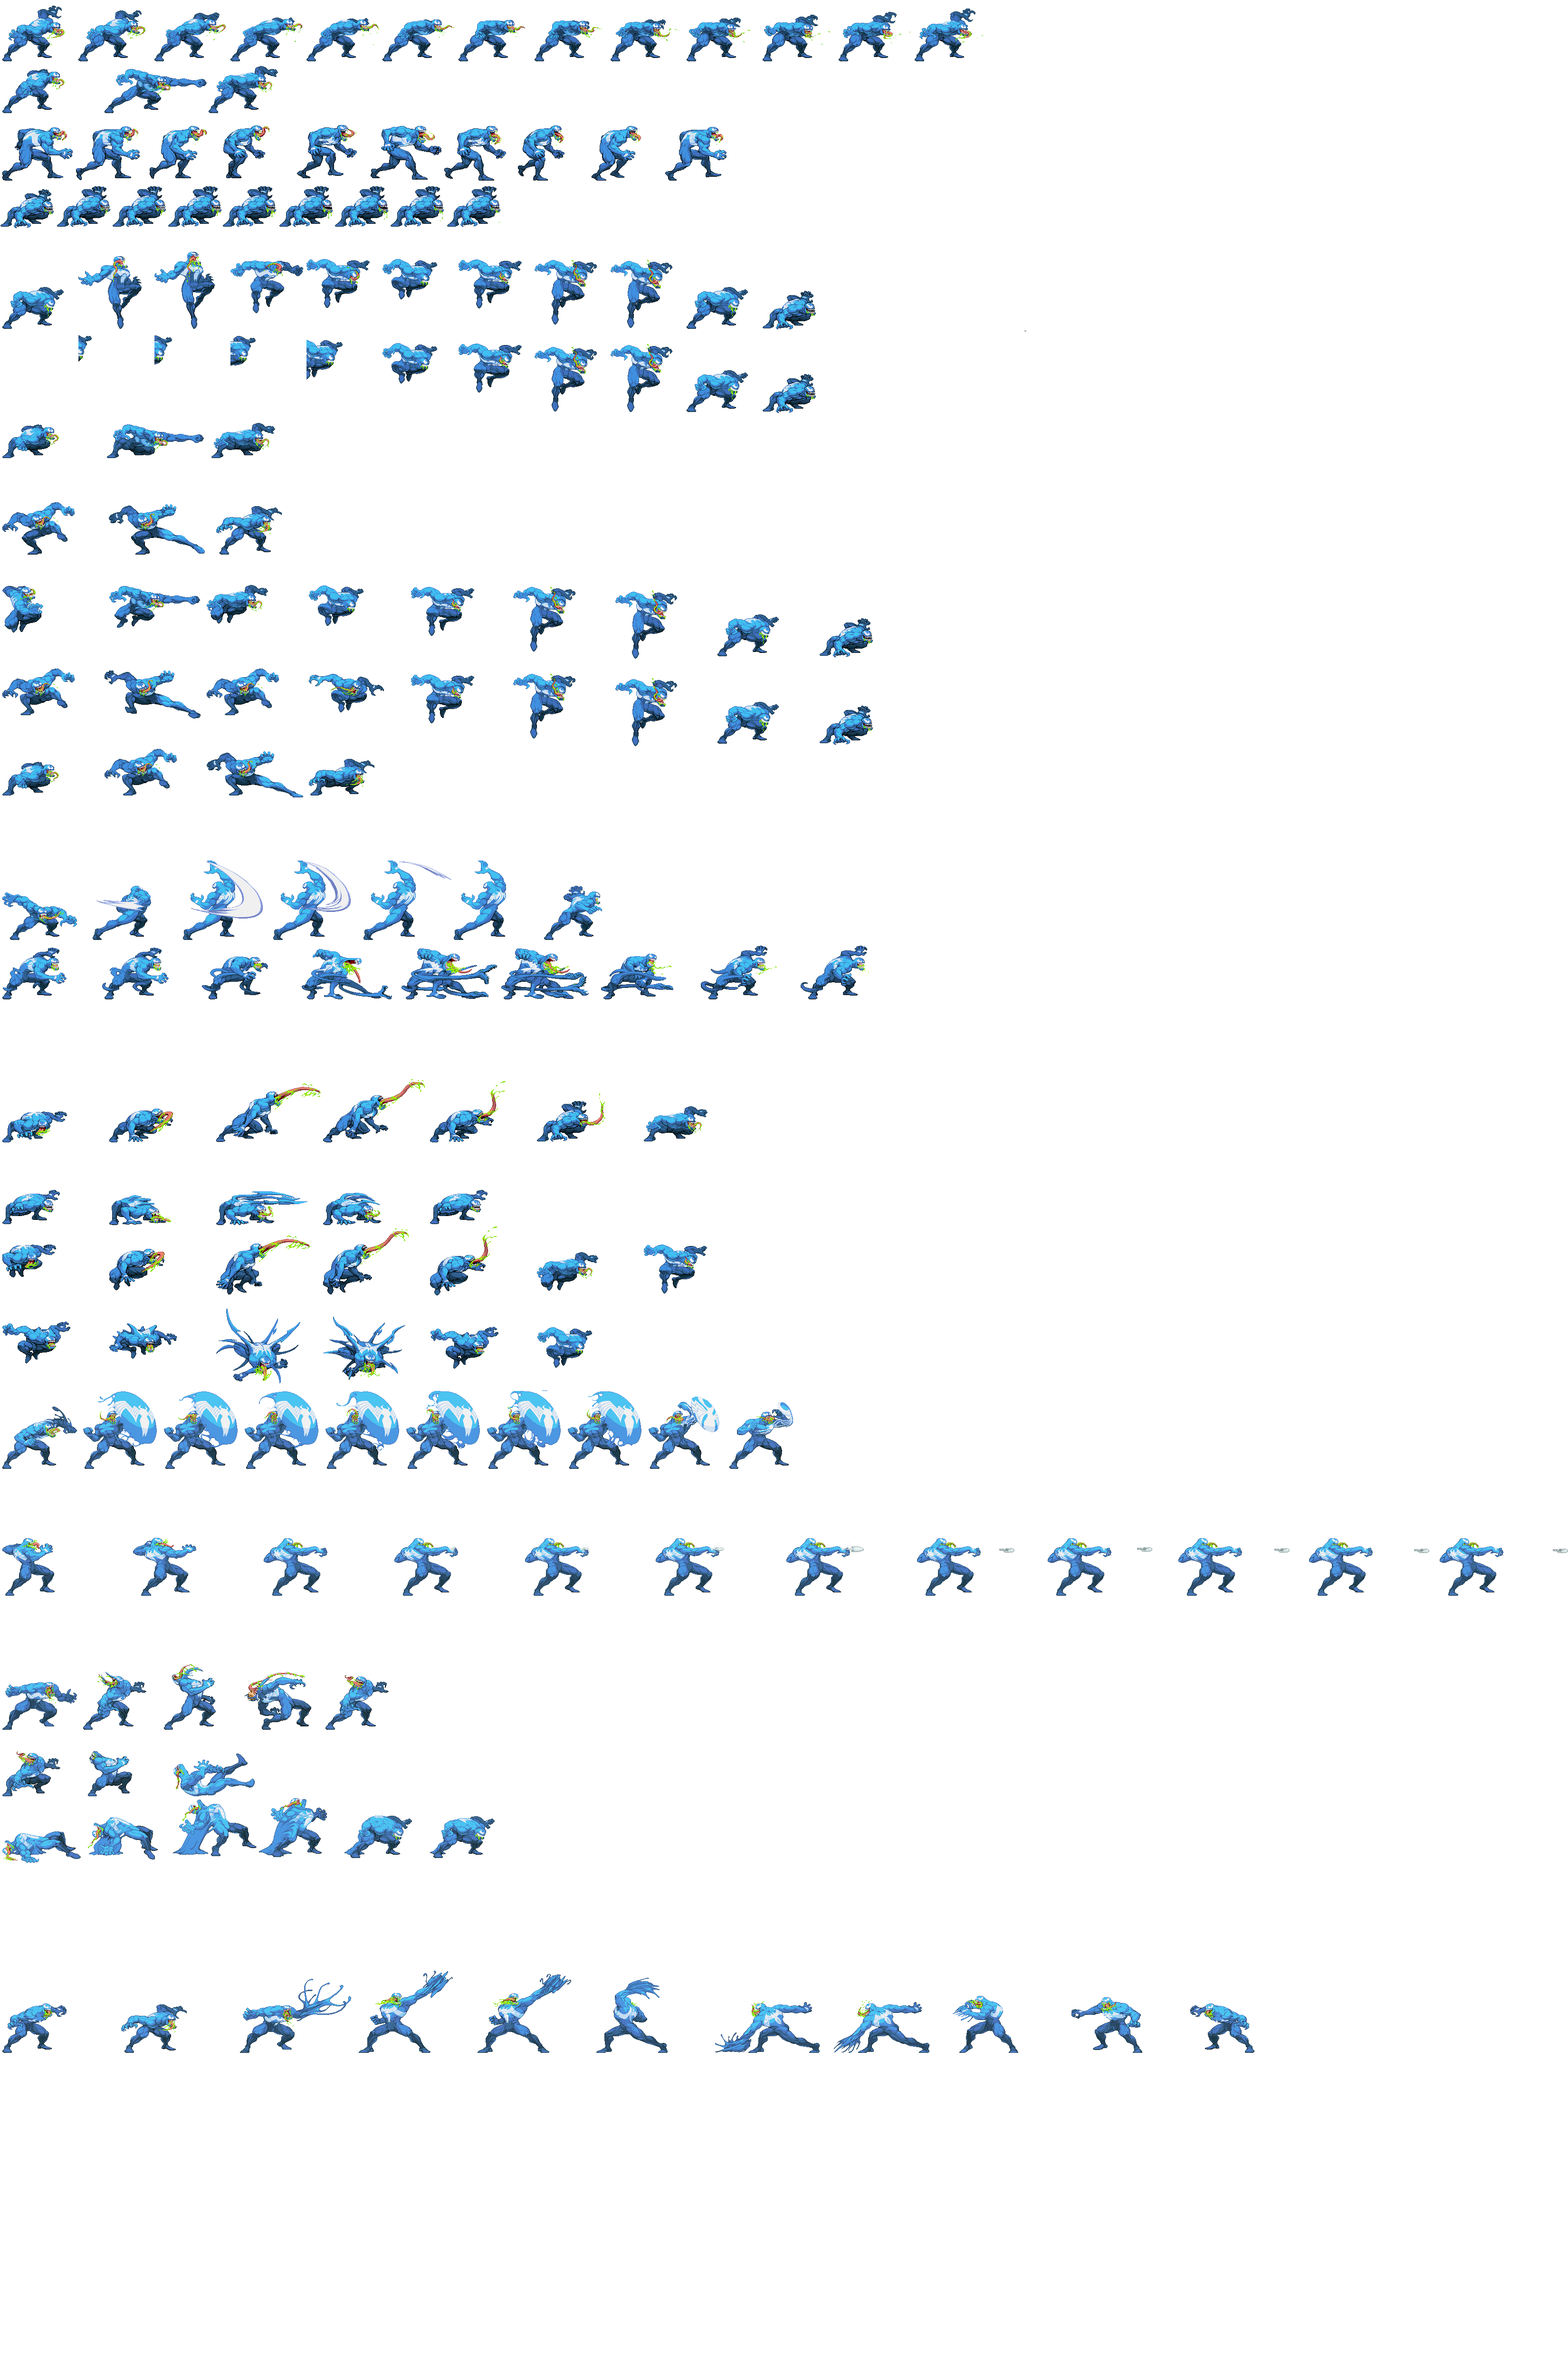
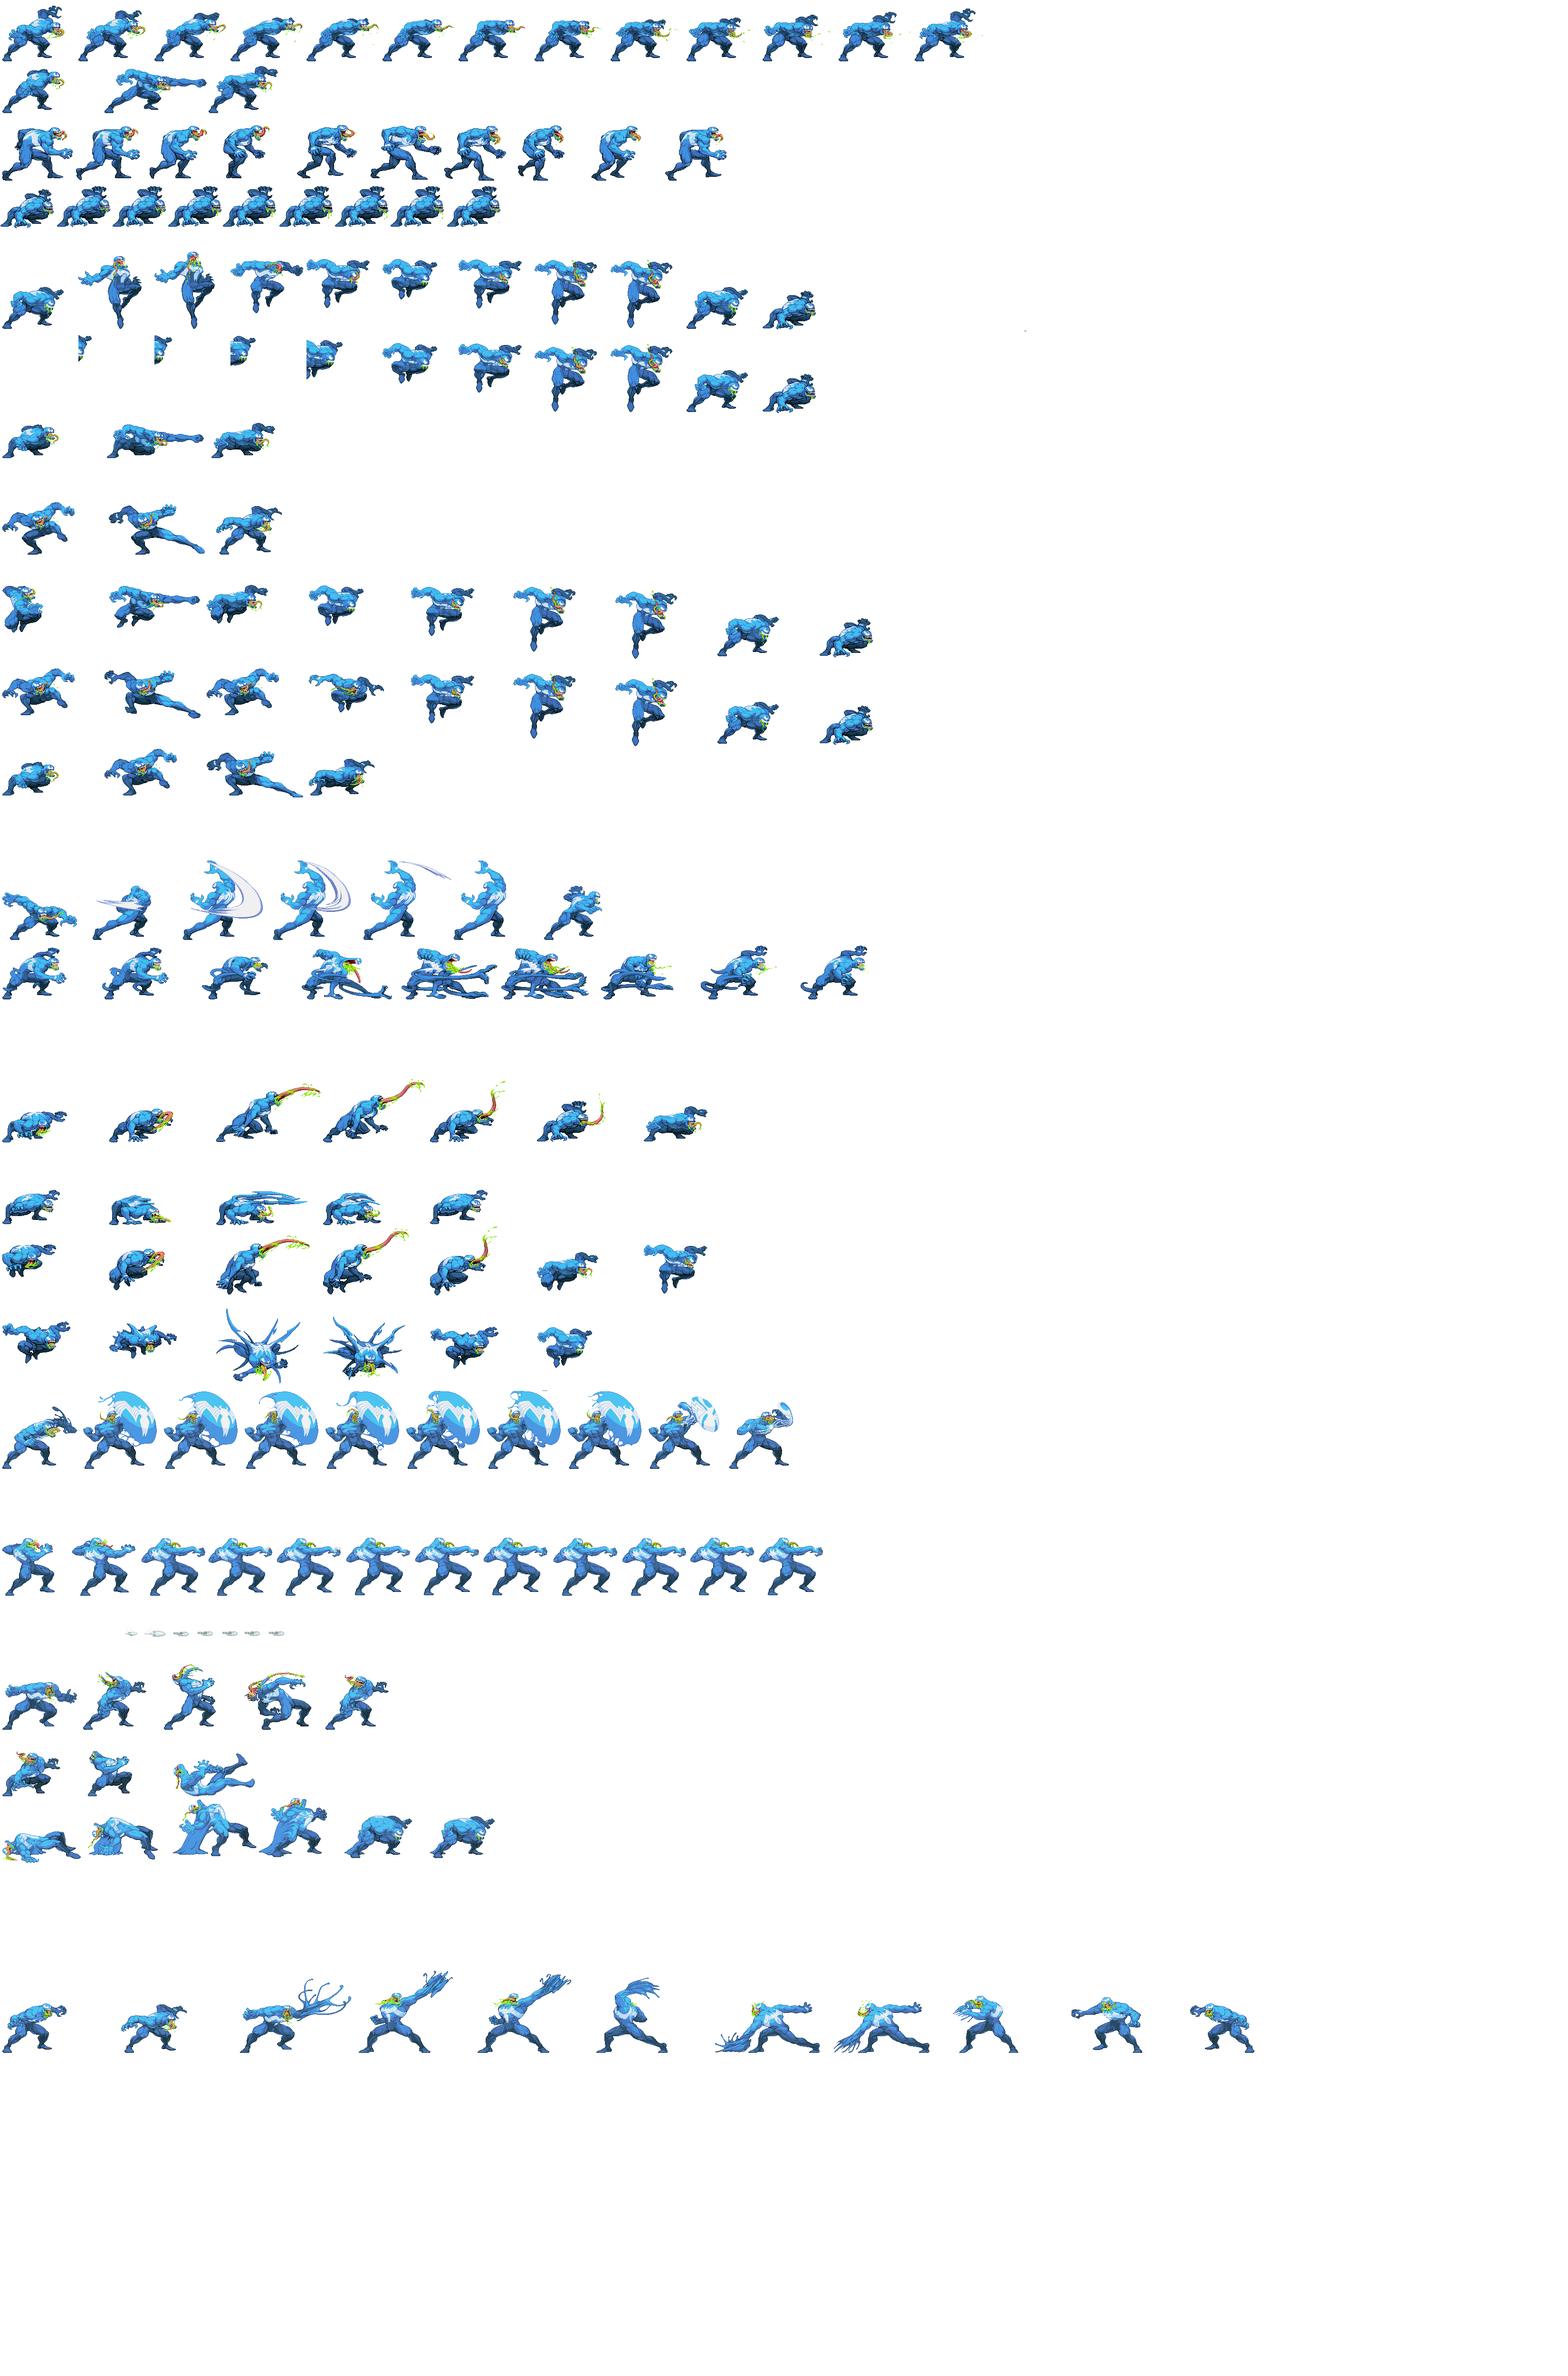
Listo spiderman y venom
Me queda capitan america. Ademas puse para que la distancia maxima sea fija, asi no hay algun personaje que tire mas lejos que otro

diff --git a/source/model/Personaje.cpp b/source/model/Personaje.cpp
@@ -39,7 +39,7 @@ Personaje::Personaje(string nombre, int posicionXinicial, SDL_RendererFlip flip)
 	this->posicionXinicial = posicionXinicial;
 	this->flip = flip;
 	this->anchoDefault=spriteAnimado->getAncho();
-	this->arrojable = new SpriteAnimado(nombre+"Arrojable");
+	this->disparable = new SpriteAnimado(nombre+"Arrojable");
 	this->setArrojable();
 	controladorLogger->registrarEvento("INFO", "Personaje:: Personaje creado: "+nombre);
 
@@ -48,11 +48,11 @@ Personaje::Personaje(string nombre, int posicionXinicial, SDL_RendererFlip flip)
 void Personaje::actualizar(Personaje *enemigo){
 	if(saltando) this->saltar(enemigo);
 	this->spriteAnimado->update();
-	if(arrojable->finalizado) {
-		distanciaArrojable=0;
-		Arrojando=false;
+	if(distanciaDisparada>distanciaMaximaDisparo) {
+		distanciaDisparada=0;
+		disparando=false;
 	}
-	if(Arrojando) arrojable->update();
+	if(disparando) disparable->update();
 	this->alto =constanteEstiramientoVertical*spriteAnimado->getAlto();
 	this->ancho = constanteEstiramientoHorizontal*spriteAnimado->getAncho();
 	if(!saltando) posy = posicionYdefault-alto;
@@ -155,10 +155,10 @@ void Personaje::agacharse(){
 	}
 }
 void Personaje::disparar(){
-	if(saltando|| agachado) return;
+	if(saltando|| agachado || disparando) return;
 	this->spriteAnimado->iniciarAnimacion("disparar");
-	this->arrojable->cambiarAnimacion("arrojar");
-	Arrojando = true;
+	this->disparable->cambiarAnimacion("arrojar");
+	disparando = true;
 }
 void Personaje::defenderse(){
 	if(saltando) return;
@@ -328,40 +328,44 @@ void Personaje::habilitar(){
 }
 
 bool Personaje::arrojando(){
-	return Arrojando;
+	return disparando;
 }
 
 void  Personaje::setArrojable(){
 	if(nombre=="CapitanAmerica"){
 		anchoArrojable=170;
 		altoArrojable=30;
+		posyArrojable=0;
 	}
 	else if(nombre=="Spiderman"){
-			anchoArrojable=95;
-			altoArrojable=33;
+			anchoArrojable=125;
+			altoArrojable=80;
+			posyArrojable=40;
 		}
 	else if(nombre=="Venom"){
-		anchoArrojable=40;
-		altoArrojable = 20;
+		anchoArrojable=125;
+		altoArrojable = 80;
+		posyArrojable=20;
 	}
 	else if(nombre=="MegaMan"){
 		anchoArrojable = 	125;
 		altoArrojable = 85;
+		posyArrojable=0;
 	}
 }
 
 SDL_Rect Personaje::getRectDestinoArrojable(){
 	SDL_Rect rectangulo ;
 	if(flip)
-		rectangulo = {posx-distanciaArrojable,posy,anchoArrojable,altoArrojable};
+		rectangulo = {posx-distanciaDisparada-anchoArrojable,posy+posyArrojable,anchoArrojable,altoArrojable};
 	else
-		rectangulo = {posx+distanciaArrojable,posy,anchoArrojable,altoArrojable};
-	distanciaArrojable +=velocidadArrojable;
+		rectangulo = {posx+distanciaDisparada+ancho,posy+posyArrojable,anchoArrojable,altoArrojable};
+	distanciaDisparada +=velocidadArrojable;
 	return rectangulo;
 
 	}
 
 SDL_Rect Personaje::getRectOrigenArrojable(){
-return arrojable->rectOrigen();
+return disparable->rectOrigen();
 
 	}

diff --git a/source/view/SpriteAnimado.cpp b/source/view/SpriteAnimado.cpp
@@ -78,7 +78,7 @@ void SpriteAnimado::cargarAnimaciones(string nombre){
 		golpeA=new Animacion("golpeA",8,790,2748,155,150,5);//golpe agachado LISTO
 		patadaA=new Animacion("patadaA",5,1030,1405,140,70,5);//patada agachado LISTO
 		defensa=new Animacion("defensa",4,0,2377,110,110,6); //LISTO
-		disparo=new Animacion("disparar",7,0,2500,275,84,3); //LISTO
+		disparo=new Animacion("disparar",7,0,2500,125,84,3); //LISTO
 		tiro=new Animacion("tirar",10,0,4800,145,120,6);//LISTO
 		rgolpe=new Animacion("recibirGolpe",3,0,3477,160,113,4); //LISTO
 		rgolpeF=new Animacion("recibirGolpeF",7,0,3721,157,93,3);//LISTO
@@ -101,7 +101,7 @@ void SpriteAnimado::cargarAnimaciones(string nombre){
 		golpeA=new Animacion("golpeA",3,0,875,220,90,8);//golpe agachado//LISTO
 		patadaA=new Animacion("patadaA",4,0,1570,215,109,8);//patada agachado//LISTO
 		defensa=new Animacion("defensa",8,0,2924,170,172,8);//LISTO
-		disparo=new Animacion("disparar",12,0,3230,275,128,2);//LISTO
+		disparo=new Animacion("disparar",12,0,3230,145,128,2);//LISTO
 		tiro=new Animacion("tirar",11,0,4160,250,160,6);
 		rgolpe=new Animacion("recibirGolpe",5,0,3500,170,140,4);//LISTO
 		rgolpeF=new Animacion("recibirGolpeF",3,0,3640,180,140,4);//LISTO
@@ -211,17 +211,17 @@ void SpriteAnimado::cargarAnimaciones(string nombre){
 		return;
 	}
 	else if(nombre=="SpidermanArrojable"){
-			arrojable = new Animacion("arrojar",1,1,1,95,33,5);
+			arrojable = new Animacion("arrojar",7,1080,2510,90,40,5);
 			animaciones.push_back(arrojable);
 			return;
 		}
 	else if(nombre=="VenomArrojable"){
-			arrojable = new Animacion("arrojar",1,1,1,40,20,5);
+			arrojable = new Animacion("arrojar",7,250,3415,50,35,5);
 			animaciones.push_back(arrojable);
 			return;
 		}
 	else if(nombre=="MegaManArrojable"){
-			arrojable = new Animacion("arrojar",9,250,2271,125,85,5);
+			arrojable = new Animacion("arrojar",7,500,2271,125,85,5);
 			animaciones.push_back(arrojable);
 			return;
 		}
@@ -285,7 +285,6 @@ bool SpriteAnimado::iniciarAnimacion(string nombre){
 }
 
 void SpriteAnimado::cambiarAnimacion(string nombre){
-	if(nombre=="arrojar") finalizado=false;
 	sonidoEnviado = false;
 	for(Uint8 i=0; i<animaciones.size();i++){
 		if(animaciones[i]->getNombre() == nombre )
@@ -302,8 +301,7 @@ void SpriteAnimado::update(){
 	if (frameIndex < animacionActual->getFrames() - 1 )
 		frameIndex++;
 	else{
-		if(animacionActual->getNombre()=="arrojar")
-			finalizado = true;
+		if(animacionActual->getNombre()=="arrojar") return;
 		else if(animacionActual->getNombre()=="agacharse" || animacionActual->getNombre()=="defensa")
 			return;
 		frameIndex=0;

diff --git a/headers/model/Personaje.hpp b/headers/model/Personaje.hpp
@@ -79,7 +79,7 @@ class Personaje{
 		bool moviendoIzq=false;
 		bool moviendoDer=false;
 		SpriteAnimado *spriteAnimado;
-		SpriteAnimado *arrojable;
+		SpriteAnimado *disparable;
 		SDL_RendererFlip flip;
 		std::string nombre;
 		int vida;
@@ -89,9 +89,10 @@ class Personaje{
 		int constanteEstiramientoHorizontal;
 		int constanteEstiramientoVertical;
 		int velocidadArrojable=10;
-		int anchoArrojable,altoArrojable;
-		int distanciaArrojable = 0;
-		bool Arrojando = false;
+		int anchoArrojable,altoArrojable,posyArrojable;
+		int distanciaDisparada = 0;
+		int distanciaMaximaDisparo = 300;
+		bool disparando = false;
 
 
 };

diff --git a/headers/view/SpriteAnimado.hpp b/headers/view/SpriteAnimado.hpp
@@ -29,7 +29,6 @@ class SpriteAnimado{
 		int getAlto();
 		int getAncho();
 		string getSonido();
-		bool finalizado = false;
 
 
 	private:
